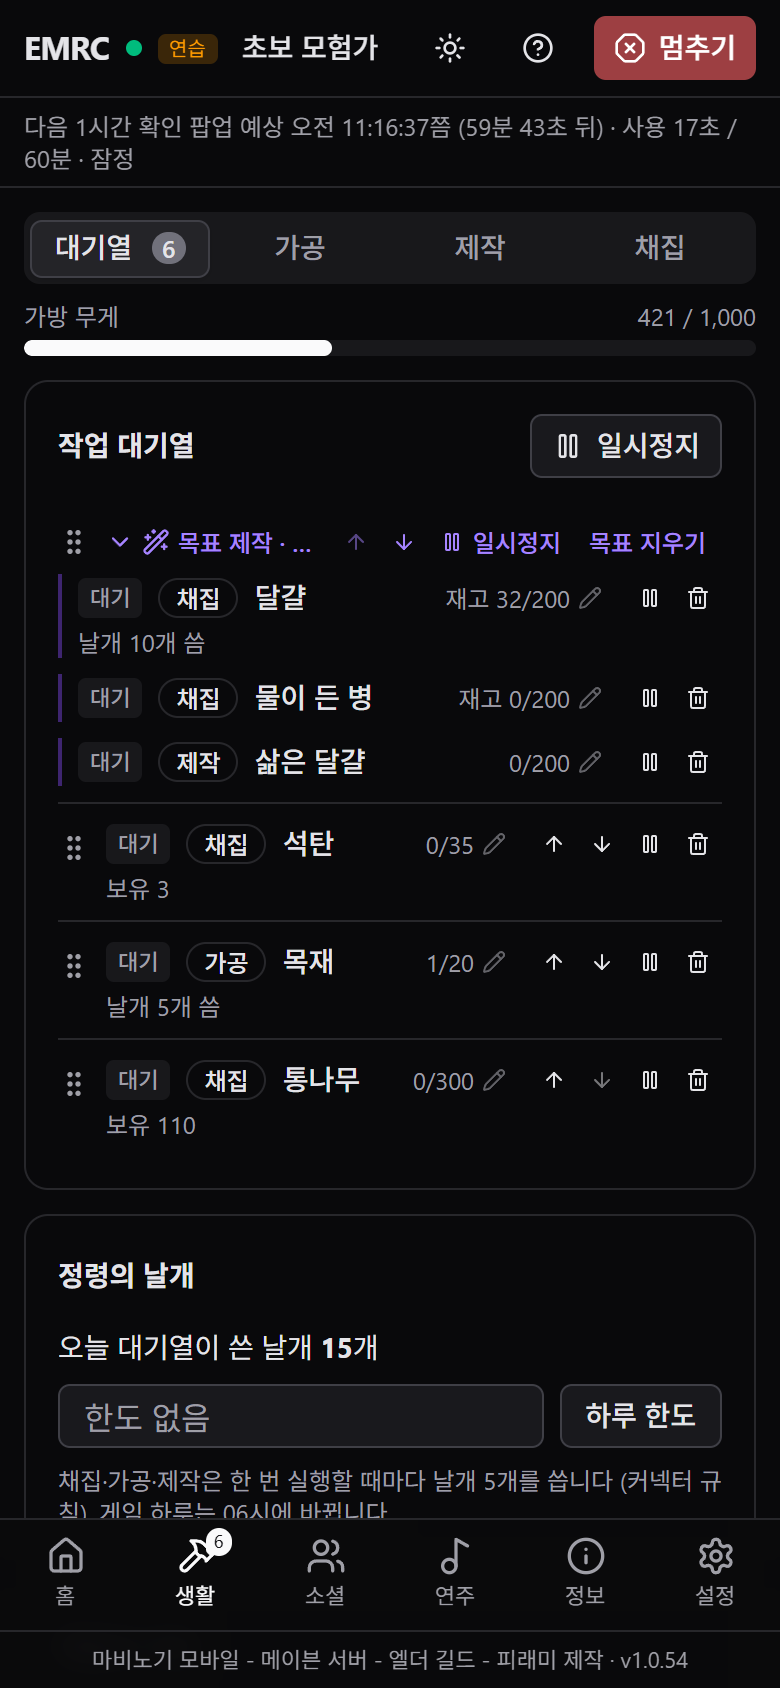
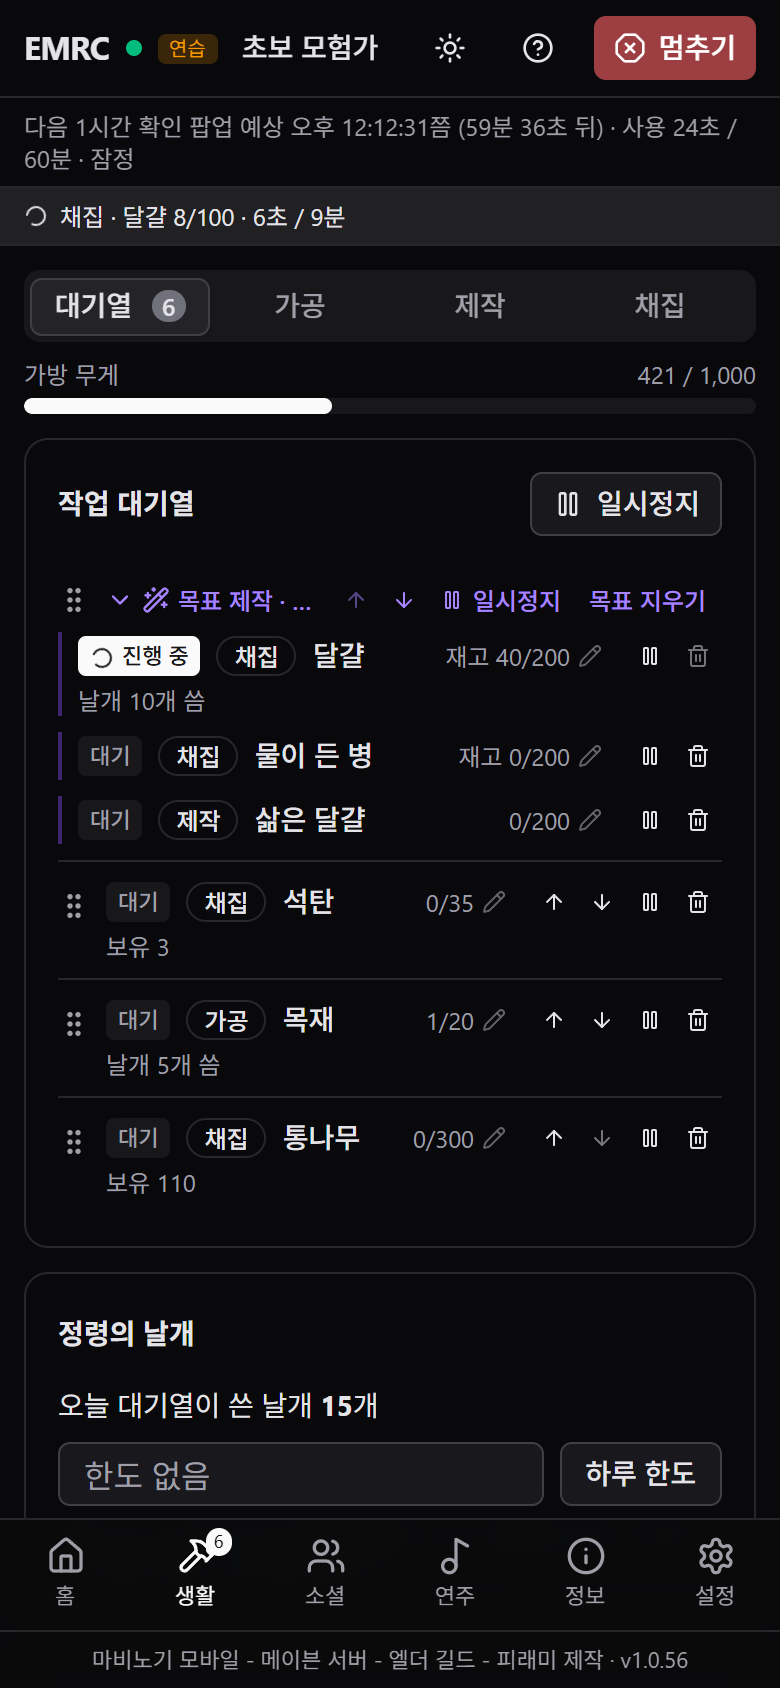
README: 이름 '에린 모비노기 리모콘(EMRC)', AI 구독 없이 쓰는 커넥터, 목표 제작·가공 소개와 계획 스크린샷
외부 메신저 연동(디스코드) 안내와 칭호 FAQ를 넣고, 스크린샷을 새 이름으로 다시 찍었다.

diff --git a/README.md b/README.md
@@ -1,11 +1,12 @@
 <div align="center">
 
-# EMRC
+# 에린 모비노기 리모콘 (EMRC)
 
-**Elder Mobinogi Remote Controller**
+**Erin Mobinogi Remote Controller**
 
 마비노기 모바일의 채집 → 가공 → 제작을 대기열에 줄 세워 두면 알아서 차례로 돌립니다.<br>
-게임 **공식 AI 커넥터**만 씁니다. 패킷 캡처·메모리 읽기·화면 매크로는 쓰지 않습니다.
+게임 **공식 AI 커넥터**만 씁니다. 패킷 캡처·메모리 읽기·화면 매크로는 쓰지 않습니다.<br>
+**AI 구독이 필요 없습니다.** Claude·ChatGPT 같은 AI 서비스 없이, EMRC가 커넥터에 직접 명령을 보냅니다.
 
 [![최신 버전](https://img.shields.io/github/v/release/DrFREEST/emrc-releases?label=%EC%B5%9C%EC%8B%A0%20%EB%B2%84%EC%A0%84)](https://github.com/DrFREEST/emrc-releases/releases/latest)
 ![Windows](https://img.shields.io/badge/Windows-10%20%2F%2011-0078d4)
@@ -17,10 +18,11 @@
 </div>
 
 > [!IMPORTANT]
-> EMRC는 개인이 만든 비공식 도구이며 넥슨·데브캣과 관계가 없습니다. 게임이 제공하는 AI 커넥터 기능을 그대로 부를 뿐이지만, 사용에 따른 책임은 사용하는 분께 있습니다. 게임 운영정책과 AI 커넥터 공지를 먼저 읽어 주세요. 공지는 이 기능을 손이 가는 일을 덜어 주는 용도로 안내합니다.
+> 에린 모비노기 리모콘(EMRC)은 개인이 만든 비공식 도구이며 넥슨·데브캣과 관계가 없습니다. 게임이 제공하는 AI 커넥터 기능을 그대로 부를 뿐이지만, 사용에 따른 책임은 사용하는 분께 있습니다. 게임 운영정책과 AI 커넥터 공지를 먼저 읽어 주세요. 공지는 이 기능을 손이 가는 일을 덜어 주는 용도로 안내합니다.
 
 ## 목차
 
+- [AI 구독 없이 쓰는 AI 커넥터](#ai-구독-없이-쓰는-ai-커넥터)
 - [무엇을 해 주나요](#무엇을-해-주나요)
 - [시작하기](#시작하기)
 - [정령의 날개와 1시간 확인 팝업](#정령의-날개와-1시간-확인-팝업)
@@ -29,7 +31,28 @@
 - [내 정보는 어디에](#내-정보는-어디에)
 - [자주 묻는 질문](#자주-묻는-질문)
 
+## AI 구독 없이 쓰는 AI 커넥터
+
+마비노기 모바일의 **AI 커넥터**는 원래 Claude·ChatGPT 같은 AI 에이전트가 게임을 대신 조작하도록 만든 공식 기능입니다. 그래서 보통은 AI 서비스(대부분 유료 구독이나 API 사용료가 드는)를 거쳐 씁니다.
+
+EMRC는 AI를 거치지 않고, 게임 폴더의 커넥터 프로그램(`MabinogiMobile_CLI.exe`)에 **직접 명령을 보냅니다.** 그래서 AI 구독 없이 무료로 쓰고, 대화로 지시할 필요 없이 버튼으로 대기열을 짜면 됩니다.
+
 ## 무엇을 해 주나요
+
+### 목표 제작·가공 — 만들 것만 정하면 재료부터 끝까지
+
+**EMRC의 핵심 기능입니다.** 재료가 모자란 레시피에서 **재료부터**를 누르면, 모자란 재료를 거꾸로 따라가 **채집 → 가공 → 제작** 순서를 한 번에 짜서 한 묶음으로 넣고, 목표에 닿을 때까지 돌립니다.
+
+<div align="center">
+<img src="images/plan.png" alt="목표 제작 계획: 숏소드Z를 만들기 위해 운철괴·최상급 목재 가공을 먼저 하는 순서와 예상 날개" width="760">
+</div>
+
+- **예) 삶은 달걀 200개:** 달걀·물이 든 병 채집을 앞에 넣고, 다 모이면 삶은 달걀을 시설이 허락하는 만큼 묶어 한 번에 만듭니다.
+- **예) 상급 옷감 80번:** 양털·상급 양털을 모으면서, 채집 한 번(최대 100개)이 끝날 때마다 모인 만큼 가공 칸을 채워 둡니다.
+- **가진 건 빼고, 겹치는 건 합쳐서:** 가방·창고에 있는 재료는 빼고 모자란 만큼만 모으고, 여러 단계가 같이 쓰는 재료는 한 번에 합칩니다. 넣기 전에 예상 날개 수를 보여 줍니다.
+- **처음 만드는 레시피도:** 첫 1번 전후의 재고를 비교해 1번에 드는 재료 수를 재고, 남은 횟수에 모자란 재료를 앞에 채웁니다.
+- **재고 기준으로 끝까지:** 목표 안의 채집 단계는 재고로 셉니다. 대기열을 멈추고 직접 캔 것도 들어가고, 중간에 팔아서 줄면 그만큼 다시 모읍니다. 목표 개수를 바꾸면 모을 재료 수도 따라 바뀝니다.
+- 드롭·상점에서만 얻는 재료는 ‘직접 구해야 하는 재료’로 알려 주고, 그 단계에서 기다립니다.
 
 ### 작업 대기열
 
@@ -37,14 +60,6 @@
 - 가공 칸이 차면 비기를 기다렸다 더 맡기고, 다 된 가공은 받아 옵니다. 채집 사이사이에 할 수 있는 가공을 끼워 넣어, 날개는 같고 시간은 줄어듭니다.
 - 순서는 끌어서 바꾸고, 항목별로나 대기열 전체로 일시정지할 수 있습니다. 진행 숫자를 누르면 목표 개수를 바로 고칠 수 있습니다.
 - 목록 검색은 레시피 이름이나 모자란 재료 이름으로, 입력하는 대로 걸러집니다.
-
-### 목표 제작·가공 (재료부터 모으기)
-
-재료가 모자란 레시피에서 **재료부터**를 누르면, 모자란 재료를 채집 → 가공 → 제작 순으로 풀어 한 묶음으로 넣습니다. 예상 날개 수도 미리 보여 줍니다.
-
-- 목표 안의 채집 단계는 **재고 기준**으로 셉니다. 대기열을 멈추고 직접 모은 것도 들어가고, 중간에 팔아서 줄면 그만큼 다시 모읍니다.
-- 처음 만드는 레시피는 첫 1번 전후의 재고를 비교해 1번에 드는 재료 수를 잽니다. 그다음 남은 횟수에 모자란 만큼을 앞에 넣습니다.
-- 드롭·상점에서만 얻는 재료는 ‘직접 구해야 하는 재료’로 알려 주고, 그 단계에서 기다립니다.
 
 ### 끊겨도 알아서 이어서
 
@@ -62,7 +77,8 @@
 
 - **정보:** 일일·주간 미션, 퀘스트 트래커, 아이템(가방·계정 창고·캐릭터 창고), 마도 저항
 - **소셜·연주:** 채팅·행동·표정 보내기(게임 확인 창을 거침), 주변 사람·NPC, 악기 장착, 악보 연주
-- **알림:** 작업 완료·멈춤과 가공 완료를 화면·진동·소리로 알립니다. 원하면 디스코드 채널로도 보냅니다.
+- **알림:** 작업 완료·멈춤과 가공 완료를 화면·진동·소리로 알립니다.
+- **외부 메신저 연동 (디스코드):** 원하면 알림을 디스코드 채널로도 보냅니다. 게임 커넥터의 기능이 아니라 EMRC가 따로 붙인 기능이고, 기본으로 꺼져 있습니다. 알림을 보내기만 하고 디스코드에서 명령을 받지는 않습니다.
 
 <sub>스크린샷은 가짜 데이터로 띄운 연습 모드 화면입니다(왼쪽 위 ‘연습’ 표시).</sub>
 
@@ -148,6 +164,12 @@
 </details>
 
 <details>
+<summary><b>내 캐릭터 이름이 안 나오고 칭호가 나와요</b></summary>
+
+게임 공식 AI 커넥터가 캐릭터 이름을 알려 주지 않기 때문입니다. 칭호·레벨·직업·서버·점수까지만 돌려줘서, 이름 대신 칭호를 보여 줍니다. 주변 사람도 마찬가지입니다. 커넥터의 기능 제한이라 EMRC에서 바꿀 수 없습니다.
+</details>
+
+<details>
 <summary><b>같은 이름의 레시피가 두 개 있어요 (은합금괴 등)</b></summary>
 
 커넥터는 레시피를 이름으로만 실행합니다. 둘 중 어느 레시피가 쓰일지는 게임이 정하고, EMRC는 고를 수 없습니다.
@@ -162,6 +184,6 @@
 ---
 
 <div align="center">
-<sub>마비노기 모바일 - 메이븐 서버 - 엘더 길드 - 피래미 제작</sub><br>
+<sub>에린 모비노기 리모콘(EMRC) · 마비노기 모바일 - 메이븐 서버 - 엘더 길드 - 피래미 제작</sub><br>
 <sub>마비노기 모바일은 넥슨의 게임이며, 게임 이름과 관련 권리는 넥슨에 있습니다. 이 저장소에는 실행 파일만 올라가며, 소스 코드는 없습니다.</sub>
 </div>
